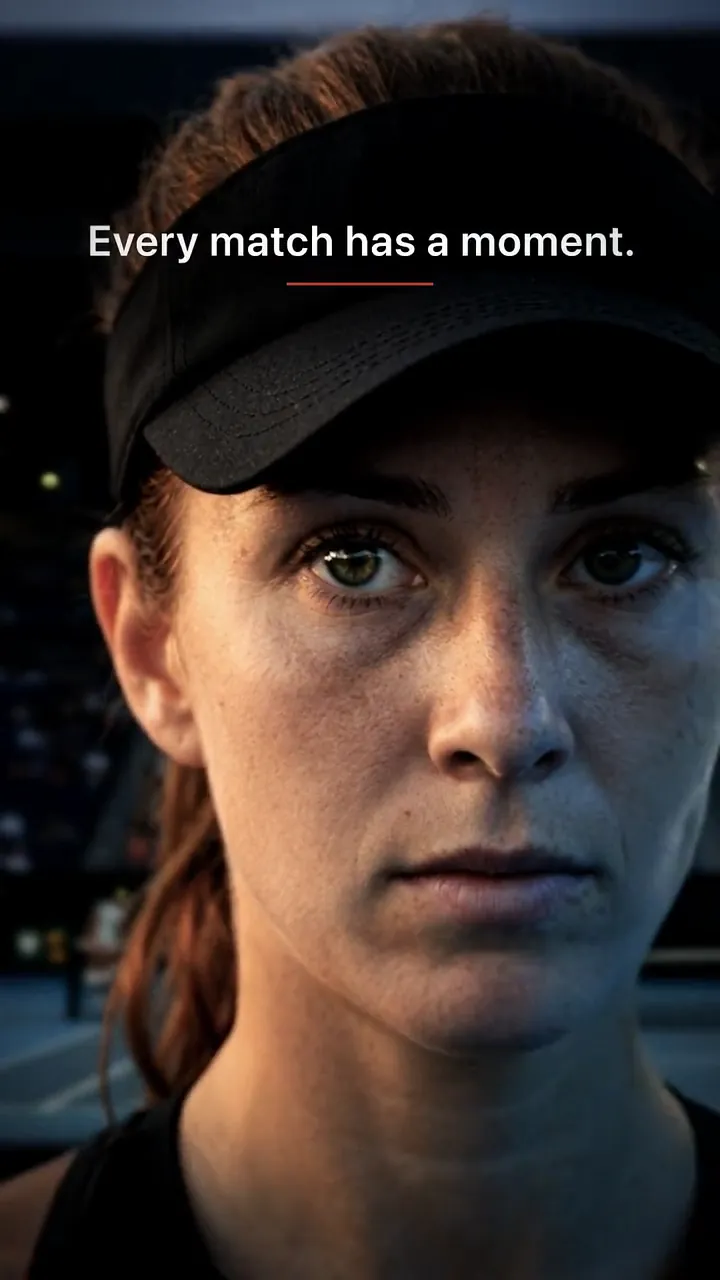
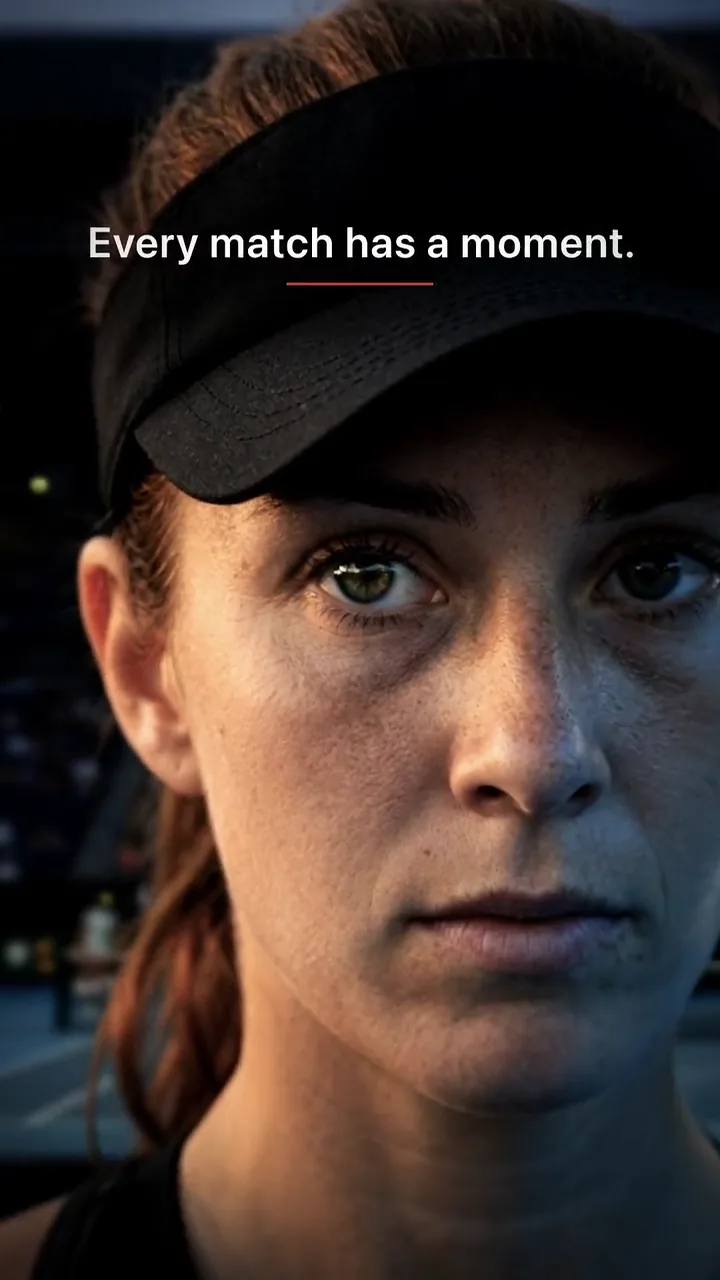
TennisCut kartlarına daha güçlü kapak kareleri
- The Moment: yüz yakın planı (3.2s) — doğrudan göz teması, sade
- Dead Time Remover: altın saat servis silüeti (14.5s)
- Best of Us: çiftin telefona birlikte bakması (27s) — filmin duygusal özü
- poster referanslarına ?v=2 cache-buster, /tr/ ve /de/ yeniden üretildi

diff --git a/tr/index.html b/tr/index.html
@@ -815,9 +815,9 @@
 <p class="sec-sub reveal" data-de="Derselbe Spot — neu vertont und lippensynchron in mehreren Sprachen, mit meiner AI-Pipeline. Gleicher Darsteller, drei Märkte." data-en="The same ad — re-voiced and lip-synced across languages with my AI pipeline. Same actor, three markets." data-tr="Aynı reklam — AI hattımla farklı dillerde yeniden seslendirilip dudak senkronu yapıldı. Aynı oyuncu, üç pazar.">Aynı reklam — AI hattımla farklı dillerde yeniden seslendirilip dudak senkronu yapıldı. Aynı oyuncu, üç pazar.</p>
 <div aria-hidden="true" class="slj-divider reveal"><span class="slj-line"></span><span class="slj-star"></span><span class="slj-line"></span></div>
 <div class="grid g-ugc" style="max-width:880px">
-<div class="card reveal"><div class="thumb v cover-b"><video data-poster="/tenniscut-1-p.webp" loop="" muted="" playsinline="" preload="none" src="/tenniscut-1.mp4"></video><button aria-label="Unmute video" aria-pressed="false" class="sndbtn" type="button">🔇</button><span class="pill">TennisCut</span></div><div class="card-body"><h3>TennisCut — The Moment</h3><p data-de="Sport-App-Kampagne · Hook-Film" data-en="Sports app campaign · hook film" data-tr="Spor uygulaması kampanyası · kanca filmi">Spor uygulaması kampanyası · kanca filmi</p></div></div>
-<div class="card reveal"><div class="thumb v cover-c"><video data-poster="/tenniscut-2-p.webp" loop="" muted="" playsinline="" preload="none" src="/tenniscut-2.mp4"></video><button aria-label="Unmute video" aria-pressed="false" class="sndbtn" type="button">🔇</button><span class="pill">TennisCut</span></div><div class="card-body"><h3>TennisCut — Dead Time Remover</h3><p data-de="Feature-Spot · AI-Regie" data-en="Feature spot · AI-directed" data-tr="Özellik filmi · AI yönetim">Özellik filmi · AI yönetim</p></div></div>
-<div class="card reveal"><div class="thumb v cover-f"><video data-poster="/tenniscut-3-p.webp" loop="" muted="" playsinline="" preload="none" src="/tenniscut-3.mp4"></video><button aria-label="Unmute video" aria-pressed="false" class="sndbtn" type="button">🔇</button><span class="pill">TennisCut</span></div><div class="card-body"><h3>TennisCut — Best of Us</h3><p data-de="Markenfilm · eigener Score" data-en="Brand film · original score" data-tr="Marka filmi · özgün müzik">Marka filmi · özgün müzik</p></div></div>
+<div class="card reveal"><div class="thumb v cover-b"><video data-poster="/tenniscut-1-p.webp?v=2" loop="" muted="" playsinline="" preload="none" src="/tenniscut-1.mp4"></video><button aria-label="Unmute video" aria-pressed="false" class="sndbtn" type="button">🔇</button><span class="pill">TennisCut</span></div><div class="card-body"><h3>TennisCut — The Moment</h3><p data-de="Sport-App-Kampagne · Hook-Film" data-en="Sports app campaign · hook film" data-tr="Spor uygulaması kampanyası · kanca filmi">Spor uygulaması kampanyası · kanca filmi</p></div></div>
+<div class="card reveal"><div class="thumb v cover-c"><video data-poster="/tenniscut-2-p.webp?v=2" loop="" muted="" playsinline="" preload="none" src="/tenniscut-2.mp4"></video><button aria-label="Unmute video" aria-pressed="false" class="sndbtn" type="button">🔇</button><span class="pill">TennisCut</span></div><div class="card-body"><h3>TennisCut — Dead Time Remover</h3><p data-de="Feature-Spot · AI-Regie" data-en="Feature spot · AI-directed" data-tr="Özellik filmi · AI yönetim">Özellik filmi · AI yönetim</p></div></div>
+<div class="card reveal"><div class="thumb v cover-f"><video data-poster="/tenniscut-3-p.webp?v=2" loop="" muted="" playsinline="" preload="none" src="/tenniscut-3.mp4"></video><button aria-label="Unmute video" aria-pressed="false" class="sndbtn" type="button">🔇</button><span class="pill">TennisCut</span></div><div class="card-body"><h3>TennisCut — Best of Us</h3><p data-de="Markenfilm · eigener Score" data-en="Brand film · original score" data-tr="Marka filmi · özgün müzik">Marka filmi · özgün müzik</p></div></div>
 <a class="card reveal" href="https://youtube.com/shorts/zhqaCtjbwmI" rel="noopener" target="_blank"><div class="thumb v cover-e"><video data-poster="/konfuse-poster.webp" loop="" muted="" playsinline="" preload="none" src="/konfuse.mp4?v=2"></video><button aria-label="Unmute video" aria-pressed="false" class="sndbtn" type="button">🔇</button><span class="pill">Konfuse</span></div><div class="card-body"><h3>Konfuse — Brand World Film</h3><p data-de="Markenwelt von A bis Z · eigener Score" data-en="End-to-end brand world · original score" data-tr="Uçtan uca marka dünyası · özgün müzik">Uçtan uca marka dünyası · özgün müzik</p></div></a>
 <a class="card reveal" href="https://www.upwork.com/freelancers/eraybalat?p=2067011390704791552" rel="noopener" target="_blank"><div class="thumb v cover-a"><video data-poster="/esim-p.webp" loop="" muted="" playsinline="" preload="none" src="/esim.mp4"></video><button aria-label="Unmute video" aria-pressed="false" class="sndbtn" type="button">🔇</button><span class="pill">eSIM.io</span></div><div class="card-body"><h3>eSIM.io — AI UGC</h3><p data-de="Echter Kunde · briefingtreu · 4K" data-en="Real client · brief-faithful · 4K" data-tr="Gerçek müşteri · brief'e sadık · 4K">Gerçek müşteri · brief'e sadık · 4K</p></div></a>
 <a class="card reveal" href="https://www.instagram.com/documenteray" rel="noopener" target="_blank"><div class="thumb v cover-d"><video data-poster="/ugc-xaura-p.webp" loop="" muted="" playsinline="" preload="none" src="/ugc-xaura.mp4"></video><button aria-label="Unmute video" aria-pressed="false" class="sndbtn" type="button">🔇</button><span class="pill">XAURA</span></div><div class="card-body"><h3>XAURA — AI UGC</h3><p data-de="Brand Content" data-en="Brand content" data-tr="Marka içeriği">Marka içeriği</p></div></a>

diff --git a/de/index.html b/de/index.html
@@ -815,9 +815,9 @@
 <p class="sec-sub reveal" data-de="Derselbe Spot — neu vertont und lippensynchron in mehreren Sprachen, mit meiner AI-Pipeline. Gleicher Darsteller, drei Märkte." data-en="The same ad — re-voiced and lip-synced across languages with my AI pipeline. Same actor, three markets." data-tr="Aynı reklam — AI hattımla farklı dillerde yeniden seslendirilip dudak senkronu yapıldı. Aynı oyuncu, üç pazar.">Derselbe Spot — neu vertont und lippensynchron in mehreren Sprachen, mit meiner AI-Pipeline. Gleicher Darsteller, drei Märkte.</p>
 <div aria-hidden="true" class="slj-divider reveal"><span class="slj-line"></span><span class="slj-star"></span><span class="slj-line"></span></div>
 <div class="grid g-ugc" style="max-width:880px">
-<div class="card reveal"><div class="thumb v cover-b"><video data-poster="/tenniscut-1-p.webp" loop="" muted="" playsinline="" preload="none" src="/tenniscut-1.mp4"></video><button aria-label="Unmute video" aria-pressed="false" class="sndbtn" type="button">🔇</button><span class="pill">TennisCut</span></div><div class="card-body"><h3>TennisCut — The Moment</h3><p data-de="Sport-App-Kampagne · Hook-Film" data-en="Sports app campaign · hook film" data-tr="Spor uygulaması kampanyası · kanca filmi">Sport-App-Kampagne · Hook-Film</p></div></div>
-<div class="card reveal"><div class="thumb v cover-c"><video data-poster="/tenniscut-2-p.webp" loop="" muted="" playsinline="" preload="none" src="/tenniscut-2.mp4"></video><button aria-label="Unmute video" aria-pressed="false" class="sndbtn" type="button">🔇</button><span class="pill">TennisCut</span></div><div class="card-body"><h3>TennisCut — Dead Time Remover</h3><p data-de="Feature-Spot · AI-Regie" data-en="Feature spot · AI-directed" data-tr="Özellik filmi · AI yönetim">Feature-Spot · AI-Regie</p></div></div>
-<div class="card reveal"><div class="thumb v cover-f"><video data-poster="/tenniscut-3-p.webp" loop="" muted="" playsinline="" preload="none" src="/tenniscut-3.mp4"></video><button aria-label="Unmute video" aria-pressed="false" class="sndbtn" type="button">🔇</button><span class="pill">TennisCut</span></div><div class="card-body"><h3>TennisCut — Best of Us</h3><p data-de="Markenfilm · eigener Score" data-en="Brand film · original score" data-tr="Marka filmi · özgün müzik">Markenfilm · eigener Score</p></div></div>
+<div class="card reveal"><div class="thumb v cover-b"><video data-poster="/tenniscut-1-p.webp?v=2" loop="" muted="" playsinline="" preload="none" src="/tenniscut-1.mp4"></video><button aria-label="Unmute video" aria-pressed="false" class="sndbtn" type="button">🔇</button><span class="pill">TennisCut</span></div><div class="card-body"><h3>TennisCut — The Moment</h3><p data-de="Sport-App-Kampagne · Hook-Film" data-en="Sports app campaign · hook film" data-tr="Spor uygulaması kampanyası · kanca filmi">Sport-App-Kampagne · Hook-Film</p></div></div>
+<div class="card reveal"><div class="thumb v cover-c"><video data-poster="/tenniscut-2-p.webp?v=2" loop="" muted="" playsinline="" preload="none" src="/tenniscut-2.mp4"></video><button aria-label="Unmute video" aria-pressed="false" class="sndbtn" type="button">🔇</button><span class="pill">TennisCut</span></div><div class="card-body"><h3>TennisCut — Dead Time Remover</h3><p data-de="Feature-Spot · AI-Regie" data-en="Feature spot · AI-directed" data-tr="Özellik filmi · AI yönetim">Feature-Spot · AI-Regie</p></div></div>
+<div class="card reveal"><div class="thumb v cover-f"><video data-poster="/tenniscut-3-p.webp?v=2" loop="" muted="" playsinline="" preload="none" src="/tenniscut-3.mp4"></video><button aria-label="Unmute video" aria-pressed="false" class="sndbtn" type="button">🔇</button><span class="pill">TennisCut</span></div><div class="card-body"><h3>TennisCut — Best of Us</h3><p data-de="Markenfilm · eigener Score" data-en="Brand film · original score" data-tr="Marka filmi · özgün müzik">Markenfilm · eigener Score</p></div></div>
 <a class="card reveal" href="https://youtube.com/shorts/zhqaCtjbwmI" rel="noopener" target="_blank"><div class="thumb v cover-e"><video data-poster="/konfuse-poster.webp" loop="" muted="" playsinline="" preload="none" src="/konfuse.mp4?v=2"></video><button aria-label="Unmute video" aria-pressed="false" class="sndbtn" type="button">🔇</button><span class="pill">Konfuse</span></div><div class="card-body"><h3>Konfuse — Brand World Film</h3><p data-de="Markenwelt von A bis Z · eigener Score" data-en="End-to-end brand world · original score" data-tr="Uçtan uca marka dünyası · özgün müzik">Markenwelt von A bis Z · eigener Score</p></div></a>
 <a class="card reveal" href="https://www.upwork.com/freelancers/eraybalat?p=2067011390704791552" rel="noopener" target="_blank"><div class="thumb v cover-a"><video data-poster="/esim-p.webp" loop="" muted="" playsinline="" preload="none" src="/esim.mp4"></video><button aria-label="Unmute video" aria-pressed="false" class="sndbtn" type="button">🔇</button><span class="pill">eSIM.io</span></div><div class="card-body"><h3>eSIM.io — AI UGC</h3><p data-de="Echter Kunde · briefingtreu · 4K" data-en="Real client · brief-faithful · 4K" data-tr="Gerçek müşteri · brief'e sadık · 4K">Echter Kunde · briefingtreu · 4K</p></div></a>
 <a class="card reveal" href="https://www.instagram.com/documenteray" rel="noopener" target="_blank"><div class="thumb v cover-d"><video data-poster="/ugc-xaura-p.webp" loop="" muted="" playsinline="" preload="none" src="/ugc-xaura.mp4"></video><button aria-label="Unmute video" aria-pressed="false" class="sndbtn" type="button">🔇</button><span class="pill">XAURA</span></div><div class="card-body"><h3>XAURA — AI UGC</h3><p data-de="Brand Content" data-en="Brand content" data-tr="Marka içeriği">Brand Content</p></div></a>

diff --git a/index.html b/index.html
@@ -842,9 +842,9 @@
     <div class="slj-divider reveal" aria-hidden="true"><span class="slj-line"></span><span class="slj-star"></span><span class="slj-line"></span></div>
 
     <div class="grid g-ugc" style="max-width:880px">
-      <div class="card reveal"><div class="thumb v cover-b"><video src="tenniscut-1.mp4" data-poster="tenniscut-1-p.webp" muted loop playsinline preload="none"></video><button class="sndbtn" type="button" aria-pressed="false" aria-label="Unmute video">🔇</button><span class="pill">TennisCut</span></div><div class="card-body"><h3>TennisCut — The Moment</h3><p data-en="Sports app campaign · hook film" data-tr="Spor uygulaması kampanyası · kanca filmi" data-de="Sport-App-Kampagne · Hook-Film">Sports app campaign · hook film</p></div></div>
-      <div class="card reveal"><div class="thumb v cover-c"><video src="tenniscut-2.mp4" data-poster="tenniscut-2-p.webp" muted loop playsinline preload="none"></video><button class="sndbtn" type="button" aria-pressed="false" aria-label="Unmute video">🔇</button><span class="pill">TennisCut</span></div><div class="card-body"><h3>TennisCut — Dead Time Remover</h3><p data-en="Feature spot · AI-directed" data-tr="Özellik filmi · AI yönetim" data-de="Feature-Spot · AI-Regie">Feature spot · AI-directed</p></div></div>
-      <div class="card reveal"><div class="thumb v cover-f"><video src="tenniscut-3.mp4" data-poster="tenniscut-3-p.webp" muted loop playsinline preload="none"></video><button class="sndbtn" type="button" aria-pressed="false" aria-label="Unmute video">🔇</button><span class="pill">TennisCut</span></div><div class="card-body"><h3>TennisCut — Best of Us</h3><p data-en="Brand film · original score" data-tr="Marka filmi · özgün müzik" data-de="Markenfilm · eigener Score">Brand film · original score</p></div></div>
+      <div class="card reveal"><div class="thumb v cover-b"><video src="tenniscut-1.mp4" data-poster="tenniscut-1-p.webp?v=2" muted loop playsinline preload="none"></video><button class="sndbtn" type="button" aria-pressed="false" aria-label="Unmute video">🔇</button><span class="pill">TennisCut</span></div><div class="card-body"><h3>TennisCut — The Moment</h3><p data-en="Sports app campaign · hook film" data-tr="Spor uygulaması kampanyası · kanca filmi" data-de="Sport-App-Kampagne · Hook-Film">Sports app campaign · hook film</p></div></div>
+      <div class="card reveal"><div class="thumb v cover-c"><video src="tenniscut-2.mp4" data-poster="tenniscut-2-p.webp?v=2" muted loop playsinline preload="none"></video><button class="sndbtn" type="button" aria-pressed="false" aria-label="Unmute video">🔇</button><span class="pill">TennisCut</span></div><div class="card-body"><h3>TennisCut — Dead Time Remover</h3><p data-en="Feature spot · AI-directed" data-tr="Özellik filmi · AI yönetim" data-de="Feature-Spot · AI-Regie">Feature spot · AI-directed</p></div></div>
+      <div class="card reveal"><div class="thumb v cover-f"><video src="tenniscut-3.mp4" data-poster="tenniscut-3-p.webp?v=2" muted loop playsinline preload="none"></video><button class="sndbtn" type="button" aria-pressed="false" aria-label="Unmute video">🔇</button><span class="pill">TennisCut</span></div><div class="card-body"><h3>TennisCut — Best of Us</h3><p data-en="Brand film · original score" data-tr="Marka filmi · özgün müzik" data-de="Markenfilm · eigener Score">Brand film · original score</p></div></div>
       <a class="card reveal" href="https://youtube.com/shorts/zhqaCtjbwmI" target="_blank" rel="noopener"><div class="thumb v cover-e"><video src="konfuse.mp4?v=2" data-poster="konfuse-poster.webp" muted loop playsinline preload="none"></video><button class="sndbtn" type="button" aria-pressed="false" aria-label="Unmute video">🔇</button><span class="pill">Konfuse</span></div><div class="card-body"><h3>Konfuse — Brand World Film</h3><p data-en="End-to-end brand world · original score" data-tr="Uçtan uca marka dünyası · özgün müzik" data-de="Markenwelt von A bis Z · eigener Score">End-to-end brand world · original score</p></div></a>
       <a class="card reveal" href="https://www.upwork.com/freelancers/eraybalat?p=2067011390704791552" target="_blank" rel="noopener"><div class="thumb v cover-a"><video src="esim.mp4" data-poster="esim-p.webp" muted loop playsinline preload="none"></video><button class="sndbtn" type="button" aria-pressed="false" aria-label="Unmute video">🔇</button><span class="pill">eSIM.io</span></div><div class="card-body"><h3>eSIM.io — AI UGC</h3><p data-en="Real client · brief-faithful · 4K" data-tr="Gerçek müşteri · brief'e sadık · 4K" data-de="Echter Kunde · briefingtreu · 4K">Real client · brief-faithful · 4K</p></div></a>
       <a class="card reveal" href="https://www.instagram.com/documenteray" target="_blank" rel="noopener"><div class="thumb v cover-d"><video src="ugc-xaura.mp4" data-poster="ugc-xaura-p.webp" muted loop playsinline preload="none"></video><button class="sndbtn" type="button" aria-pressed="false" aria-label="Unmute video">🔇</button><span class="pill">XAURA</span></div><div class="card-body"><h3>XAURA — AI UGC</h3><p data-en="Brand content" data-tr="Marka içeriği" data-de="Brand Content">Brand content</p></div></a>
